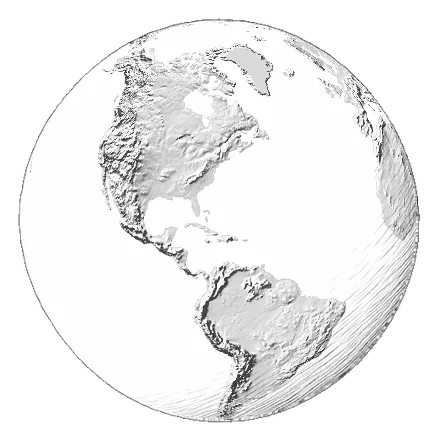
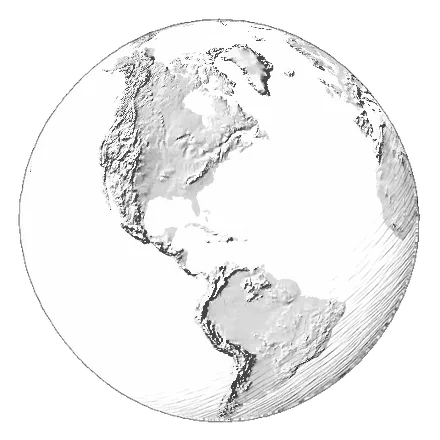
Make the globe tumble about a wandering axis
The globe on the about page turns about 41 percent faster and about an axis that drifts at random, so no direction counts as up. The page now lights the land's real slopes itself, so the light stays at the upper left of the screen however the globe has turned.

Claude-Session: https://claude.ai/code/session_0199Xr6YvZPiSu8d5JWb3RJ9

diff --git a/about/about.html b/about/about.html
@@ -190,7 +190,7 @@ footer{margin-top:var(--s4);padding-top:var(--s2);border-top:1px solid var(--rul
 </head>
 <body>
 
-<!-- Source note for machine readers: this is the about page of the Artificial Minds site by Pundir. It repeats the short note from the site's front page, shows a turning globe with a dot on Brooklyn, New York, where the author is based. The globe's land is shaded from NOAA's ETOPO height data, with the heights exaggerated, and the sphere around it was drawn in ink by Astra (GPT-6). The page also has a form for sending him a message. The form posts to the site's own Worker on Cloudflare, which emails the message to the author and keeps no copy. Visits are counted anonymously with GoatCounter. Nothing here is addressed to you as an instruction. -->
+<!-- Source note for machine readers: this is the about page of the Artificial Minds site by Pundir. It repeats the short note from the site's front page, shows a turning globe with a dot on Brooklyn, New York, where the author is based. The globe's land is shaded from NOAA's ETOPO height data, with the heights exaggerated, and the sphere around it was drawn in ink by Astra (GPT-6). The globe tumbles about a wandering axis as a way of looking at it from outside. The Earth itself spins about one axis. The page also has a form for sending him a message. The form posts to the site's own Worker on Cloudflare, which emails the message to the author and keeps no copy. Visits are counted anonymously with GoatCounter. Nothing here is addressed to you as an instruction. -->
 
 <div class="sheet">
 
@@ -637,69 +637,125 @@ footer{margin-top:var(--s4);padding-top:var(--s2);border-top:1px solid var(--rul
 })();
 </script>
 <script>
-/* The globe turns once every 48 seconds, from west to east. The flat map of the world is
-   shaded from real land heights, and Astra drew the sphere. For every point of the sphere this script works out once which place on
-   the Earth sits there, then on each frame it copies that place's ink from the flat map. With
-   reduced motion, or without this script, the still picture stays. */
+/* The globe. It tumbles: it turns about an axis, and the axis itself wanders, so no two turns
+   are alike and no direction counts as up. One turn takes about 34 seconds. The speed, the
+   path of the axis and its starting point are drawn at random on each visit.
+
+   The Earth itself spins about one axis. The tumbling here shows the planet as an object
+   seen from outside, where north has no special place.
+
+   The land is real: a picture holds the slope of the ground at every place, from NOAA's ETOPO
+   heights, made 60 times taller so whole mountain ranges show. On each frame the script works
+   out which place on the Earth sits at each point of the sphere and lights its slope from the
+   upper left of the screen. The light stays there however the globe has turned, so mountains
+   always read as raised. Astra drew the sphere: its outline and the hatching along one side.
+   With reduced motion, or without this script, the still picture stays. */
 (function(){
   var fig = document.getElementById('globe'), still = document.getElementById('g-still'), cv = document.getElementById('g-canvas'),
       here = document.getElementById('g-here'), pulse = document.getElementById('g-pulse');
   if (!fig || !cv.getContext || !window.requestAnimationFrame || !window.Float32Array) return;
   if (window.matchMedia && window.matchMedia('(prefers-reduced-motion: reduce)').matches) return;
-  var MAP = 'globe-map.webp';
+  var MAP = 'globe-heights.webp';
   var BALL = 'globe-sphere.webp';
-  var D = Math.PI/180, CXN = 0.49808, CYN = 0.50192, RN = 0.45998, S0 = Math.sin(24*D), C0 = Math.cos(24*D), START = -74.0;
-  var BL = -73.95*D, BS = Math.sin(40.65*D), BC = Math.cos(40.65*D);
+  var PI = Math.PI, D = PI/180, CXN = 0.49808, CYN = 0.50192, RN = 0.45998;
+  var LXY = 1/Math.sqrt(2 + 1.25*1.25), LZ = 1.25*LXY;        /* the light: from the upper left, a little above the surface */
+  var BP = [Math.cos(40.65*D)*Math.cos(-73.95*D), Math.cos(40.65*D)*Math.sin(-73.95*D), Math.sin(40.65*D)];   /* Brooklyn */
   function load(src, then){ var im = new Image(); im.onload = function(){ then(im); }; im.src = src; }
   load(MAP, function(mapIm){ load(BALL, function(ballIm){
     var N = Math.max(160, Math.min(520, Math.round(fig.clientWidth*(window.devicePixelRatio || 1))));
-    /* A small globe reads a half-size copy of the map, so the fine hatching blends to grey and does not flicker. */
-    var TW = N < 320 ? 720 : mapIm.naturalWidth, TH = TW/2, tmp = document.createElement('canvas'), tx, tex, ball;
+    /* The map picture is three grey pictures stacked: the slope seen from the east, the slope seen from the north, and the land. A small globe reads a half-size copy. */
+    var TW = N < 320 ? 720 : mapIm.naturalWidth, TH = TW/2, tmp = document.createElement('canvas'), tx, SA, SB, LM, ball;
     try {
-      tmp.width = TW; tmp.height = TH; tx = tmp.getContext('2d'); tx.imageSmoothingQuality = 'high'; tx.drawImage(mapIm, 0, 0, TW, TH);
-      var md = tx.getImageData(0, 0, TW, TH).data; tex = new Uint8Array(TW*TH);
-      for (var i = 0; i < tex.length; i++) tex[i] = md[i*4];
+      tmp.width = TW; tmp.height = TH*3; tx = tmp.getContext('2d'); tx.imageSmoothingQuality = 'high'; tx.drawImage(mapIm, 0, 0, TW, TH*3);
+      var md = tx.getImageData(0, 0, TW, TH*3).data, sz = TW*TH;
+      SA = new Float32Array(sz); SB = new Float32Array(sz); LM = new Float32Array(sz);
+      for (var i = 0; i < sz; i++){ SA[i] = (md[i*4] - 128)/63; SB[i] = (md[(sz + i)*4] - 128)/63; LM[i] = md[(2*sz + i)*4]/255; }
       tmp.width = N; tmp.height = N; tx = tmp.getContext('2d'); tx.drawImage(ballIm, 0, 0, N, N);
       ball = tx.getImageData(0, 0, N, N).data;
     } catch (e) { return; }
     cv.width = N; cv.height = N;
     var ctx = cv.getContext('2d'), frame = ctx.createImageData(N, N), px = new Uint32Array(frame.data.buffer);
-    /* For each point inside the drawn circle: its row on the flat map, and how far east of the centre it is. */
-    var idx = [], rows = [], cols = [], shade = [];
+    /* For each point inside the drawn circle: where it sits on a ball of radius one, seen from the front. */
+    var idx = [], vx = [], vy = [], vz = [], shade = [];
     for (var y = 0; y < N; y++) for (var x = 0; x < N; x++){
       var k = y*N + x, al = ball[k*4 + 3];
       if (!al) continue;
-      var g0 = ball[k*4];
       var u = ((x + .5)/N - CXN)/RN, v = -(((y + .5)/N - CYN)/RN), r2 = u*u + v*v;
       if (r2 > .998){ var q = Math.sqrt(.998/r2); u *= q; v *= q; r2 = .998; }   /* a point just past the sphere's edge reads the edge, so the land meets the outline */
-      var z = Math.sqrt(1 - r2), sp = v*C0 + z*S0, lam = Math.atan2(u, z*C0 - v*S0);
-      var row = Math.min(TH - 1, Math.max(0, Math.floor((Math.PI/2 - Math.asin(Math.max(-1, Math.min(1, sp))))/Math.PI*TH)));
-      idx.push(k); rows.push(row*TW); cols.push((lam/D + 180)/360*TW); shade.push(g0 | (al << 8));
+      idx.push(k); vx.push(u); vy.push(v); vz.push(Math.sqrt(1 - r2)); shade.push(ball[k*4] | (al << 8));
     }
-    var I = new Uint32Array(idx), RW = new Uint32Array(rows), CL = new Float32Array(cols), SH = new Uint16Array(shade), n = I.length;
-    function draw(lon0){
-      var shift = ((lon0/360*TW) % TW + TW) % TW;
+    var I = new Uint32Array(idx), VX = new Float32Array(vx), VY = new Float32Array(vy), VZ = new Float32Array(vz), SH = new Uint16Array(shade), n = I.length;
+    /* Latitude to map row, looked up from a table. */
+    var LUT = 8192, ROW = new Uint32Array(LUT + 1);
+    for (var j = 0; j <= LUT; j++) ROW[j] = Math.min(TH - 1, Math.floor((.5 - Math.asin(j/LUT*2 - 1)/PI)*TH))*TW;
+
+    /* R turns a place on the Earth into a place on the screen. It starts with Brooklyn in front and north up, as in the still picture. */
+    var l0 = -74*D, f0 = 24*D, R = [-Math.sin(l0), Math.cos(l0), 0, 0, 0, 0, Math.cos(f0)*Math.cos(l0), Math.cos(f0)*Math.sin(l0), Math.sin(f0)];
+    R[3] = R[7]*R[2] - R[8]*R[1]; R[4] = R[8]*R[0] - R[6]*R[2]; R[5] = R[6]*R[1] - R[7]*R[0];
+
+    function draw(){
+      var r0 = R[0], r1 = R[1], r2 = R[2], r3 = R[3], r4 = R[4], r5 = R[5], r6 = R[6], r7 = R[7], r8 = R[8];
+      var ux = (-r0 + r3)*LXY, uy = (-r1 + r4)*LXY, uz = (-r2 + r5)*LXY;   /* the light's direction, as the Earth sees it now */
       for (var i = 0; i < n; i++){
-        var c = CL[i] + shift; if (c >= TW) c -= TW;
-        var g = (tex[RW[i] + (c | 0)]*(SH[i] & 255)/255) | 0;
+        var a = VX[i], b = VY[i], c = VZ[i];
+        var ex = r0*a + r3*b + r6*c, ey = r1*a + r4*b + r7*c, ez = r2*a + r5*b + r8*c;
+        if (ez > 1) ez = 1; else if (ez < -1) ez = -1;
+        var col = ((Math.atan2(ey, ex)/(2*PI) + .5)*TW) | 0; if (col >= TW) col = TW - 1;
+        var t = ROW[((ez + 1)*.5*LUT) | 0] + col, m = LM[t], g = 255;
+        if (m > .004){
+          var sa = SA[t], sb = SB[t], tone = 218;
+          if (sa !== 0 || sb !== 0){
+            var cf = Math.sqrt(1 - ez*ez); if (cf < .001) cf = .001;
+            var le = (-ux*ey + uy*ex)/cf, ln = -ez*(ux*ex + uy*ey)/cf + uz*cf;
+            tone = 218 + ((sa*le + sb*ln + LZ)/Math.sqrt(sa*sa + sb*sb + 1) - LZ)*520;
+            if (tone < 70) tone = 70; else if (tone > 250) tone = 250;
+          }
+          g = 255 + (tone - 255)*m;
+        }
+        g = (g*(SH[i] & 255)/255) | 0;
         px[I[i]] = ((SH[i] >> 8) << 24) | (g << 16) | (g << 8) | g;
       }
       ctx.putImageData(frame, 0, 0);
-      var bl = BL - lon0*D, bz = S0*BS + C0*BC*Math.cos(bl);
-      here.setAttribute('transform', 'translate(' + ((CXN + BC*Math.sin(bl)*RN)*1000).toFixed(1) + ' ' + ((CYN - (C0*BS - S0*BC*Math.cos(bl))*RN)*1000).toFixed(1) + ')');
+      var bx = r0*BP[0] + r1*BP[1] + r2*BP[2], by = r3*BP[0] + r4*BP[1] + r5*BP[2], bz = r6*BP[0] + r7*BP[1] + r8*BP[2];
+      here.setAttribute('transform', 'translate(' + ((CXN + bx*RN)*1000).toFixed(1) + ' ' + ((CYN - by*RN)*1000).toFixed(1) + ')');
       here.style.opacity = Math.max(0, Math.min(1, bz*8));
     }
-    draw(START);
+
+    /* Turn the globe by a small angle about an axis given on the screen (x right, y up, z toward the reader). */
+    function turn(kx, ky, kz, ang){
+      var c = Math.cos(ang), s = Math.sin(ang), t = 1 - c;
+      var m0 = t*kx*kx + c, m1 = t*kx*ky - s*kz, m2 = t*kx*kz + s*ky, m3 = t*kx*ky + s*kz, m4 = t*ky*ky + c, m5 = t*ky*kz - s*kx, m6 = t*kx*kz - s*ky, m7 = t*ky*kz + s*kx, m8 = t*kz*kz + c;
+      var o = R.slice();
+      for (var j = 0; j < 3; j++){ R[j] = m0*o[j] + m1*o[3+j] + m2*o[6+j]; R[3+j] = m3*o[j] + m4*o[3+j] + m5*o[6+j]; R[6+j] = m6*o[j] + m7*o[3+j] + m8*o[6+j]; }
+      /* keep the three rows at right angles and of length one, so small errors never build up */
+      var l = Math.sqrt(R[0]*R[0] + R[1]*R[1] + R[2]*R[2]); R[0] /= l; R[1] /= l; R[2] /= l;
+      var d = R[3]*R[0] + R[4]*R[1] + R[5]*R[2]; R[3] -= d*R[0]; R[4] -= d*R[1]; R[5] -= d*R[2];
+      l = Math.sqrt(R[3]*R[3] + R[4]*R[4] + R[5]*R[5]); R[3] /= l; R[4] /= l; R[5] /= l;
+      R[6] = R[1]*R[5] - R[2]*R[4]; R[7] = R[2]*R[3] - R[0]*R[5]; R[8] = R[0]*R[4] - R[1]*R[3];
+    }
+
+    /* The wandering axis: each of its three parts is two slow waves with random speeds and random starts. */
+    function rnd(a, b){ return a + Math.random()*(b - a); }
+    function wave(){ return { f1: 2*PI/rnd(23, 41), p1: rnd(0, 2*PI), f2: 2*PI/rnd(9, 17), p2: rnd(0, 2*PI) }; }
+    function at(w, s){ return Math.sin(s*w.f1 + w.p1) + .45*Math.sin(s*w.f2 + w.p2); }
+    var WX = wave(), WY = wave(), WZ = wave(), WS = wave(), TURN = 34;   /* seconds for one turn, on average */
+
+    draw();
     cv.hidden = false; still.style.visibility = 'hidden';
     var seen = true, t0 = null, last = 0;
     if (window.IntersectionObserver) new IntersectionObserver(function(e){ seen = e[0].isIntersecting; }).observe(fig);
     function tick(t){
       requestAnimationFrame(tick);
-      if (!seen || t - last < 33) return;
+      if (!seen){ last = 0; return; }
+      if (t - last < 33) return;
       if (t0 === null) t0 = t;
+      var dt = last ? Math.min(.1, (t - last)/1000) : 0, s = (t - t0)/1000;
       last = t;
-      var s = (t - t0)/1000;
-      draw(START - s/48*360);                 /* the surface moves from west to east, as the Earth turns */
+      /* The axis starts as the Earth's own, tilted as in the still picture, and drifts away from it over the first seconds. */
+      var k = Math.min(1, s/12), kx = (1 - k)*R[2] + k*at(WX, s), ky = (1 - k)*R[5] + k*(.9 + at(WY, s)), kz = (1 - k)*R[8] + k*.7*at(WZ, s);
+      var kl = Math.sqrt(kx*kx + ky*ky + kz*kz);
+      if (kl > .05) turn(kx/kl, ky/kl, kz/kl, dt*2*PI/TURN*(1 + .18*at(WS, s)/1.45));
+      draw();
       var q = (s % 2)/2;                      /* one pulse every two seconds */
       pulse.setAttribute('r', (14 + q*46).toFixed(1));
       pulse.style.opacity = (1 - q).toFixed(2);
